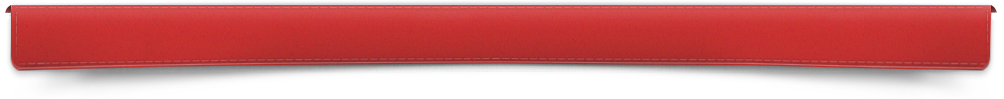
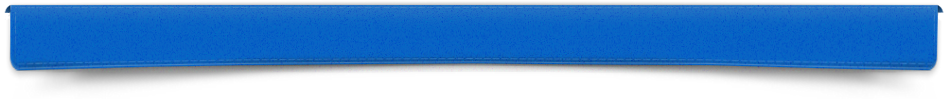
home-style
Cambio en el estilo de la página inicial

diff --git a/index.html b/index.html
@@ -1,4 +1,4 @@
-<!DOCTYPE html>
+<!DOCTYPE html>
 <html lang="en">
 <head>
 <title>Cafe</title>
@@ -70,9 +70,9 @@
           <li><a href="#">About us</a></li>
           <li><a href="#">Our Menu</a></li>
           <li><a href="#">Reservations</a></li>
-          <li><a href="#">Blog</a></li>
+        <!--  <li><a href="#">Blog</a></li>
           <li><a href="#">Showcase</a></li>
-          <li><a href="#">Contact Us</a></li>
+          <li><a href="#">Contact Us</a></li> -->
         </ul>
       </nav>
       <!-- end of navigation -->
@@ -116,28 +116,9 @@
     <div class="shell">
       <!-- cols -->
       <section class="cols">
-        <div class="col">
-          <h3>Fantastic Donuts </h3>
-          <img src="css/images/cols-img.png" alt="" class="alignleft">
-          <div class="cnt">
-            <p>Lorem ipsum dolor sit amet, con<br>
-              sectetur adipiscing elit. Cras molestie condimentum conse am leom.</p>
-            <a href="#" class="dot">Order Donuts</a> </div>
-        </div>
-        <div class="col">
-          <h3>Delicious Cupcakes</h3>
-          <img src="css/images/cols-img2.png" alt="" class="alignleft">
-          <div class="cnt">
-            <p>Ipsum dolor sit amet, consectetur adipiscing elit. Cras molestie condimentum conse am leo libert.</p>
-            <a href="#" class="dot">Order Cupcakes</a> </div>
-        </div>
-        <div class="col">
-          <h3>Address &amp; Location</h3>
-          <img src="css/images/cols-img3.png" alt="" class="alignleft">
-          <div class="cnt">
-            <p>Sit amet, consectetur adipiscing elit. Cras molestie condimentum conse am leo libero, samet dor.</p>
-            <a href="#" class="dot">View Map</a> </div>
-        </div>
+       
+       
+      
         <div class="cl">&nbsp;</div>
       </section>
       <!-- end of cols -->

diff --git a/css/style.css b/css/style.css
@@ -51,7 +51,7 @@ textarea { overflow: auto; }
 .shell { width: 980px; margin: 0 auto; }
 /* header */
 .header { background: url(images/header-bg.png) repeat-x 0 0; height: 514px; }
-.header .shell { background: url(images/header-img.png) no-repeat 391px 0; position: relative; height: 100%; }
+.header .shell { background: url("") no-repeat 391px 0; position: relative; height: 100%; }
 #logo { width: 191px; font-size: 0; line-height: 0; float: left; }
 #logo a { height: 111px; background: url(images/logo.png) no-repeat 0 0; text-indent: -4000px; display: block; }
 
@@ -82,7 +82,7 @@ textarea { overflow: auto; }
 .socials a:hover { background-position: 0 -55px; margin-top: -5px; }
 .main { background: url(images/wrapper.png) repeat-x 0 0; }
 
-#navigation { background: url(images/navigation.png) no-repeat 0 0; width: 984px; height: 90px; padding-top: 9px; padding-left: 20px;  position: absolute; top: 115px; left: -10px; z-index: 100; }
+#navigation { background: url(images/navigation.png) no-repeat 0 0; width: 984px; height: 90px; padding-top: 9px; padding-left: 20px;  position: absolute; top: 115px; left: 12px; z-index: 100; }
 #navigation ul { list-style: none; list-style-position: outside; }
 #navigation ul li { float: left; font-size: 18px; font-family: 'museo', arial, helvetica, serif; background: url(images/nav-border.png) no-repeat right 0; line-height: 48px; padding: 0 29px; }
 #navigation ul li.last { background: transparent; }
